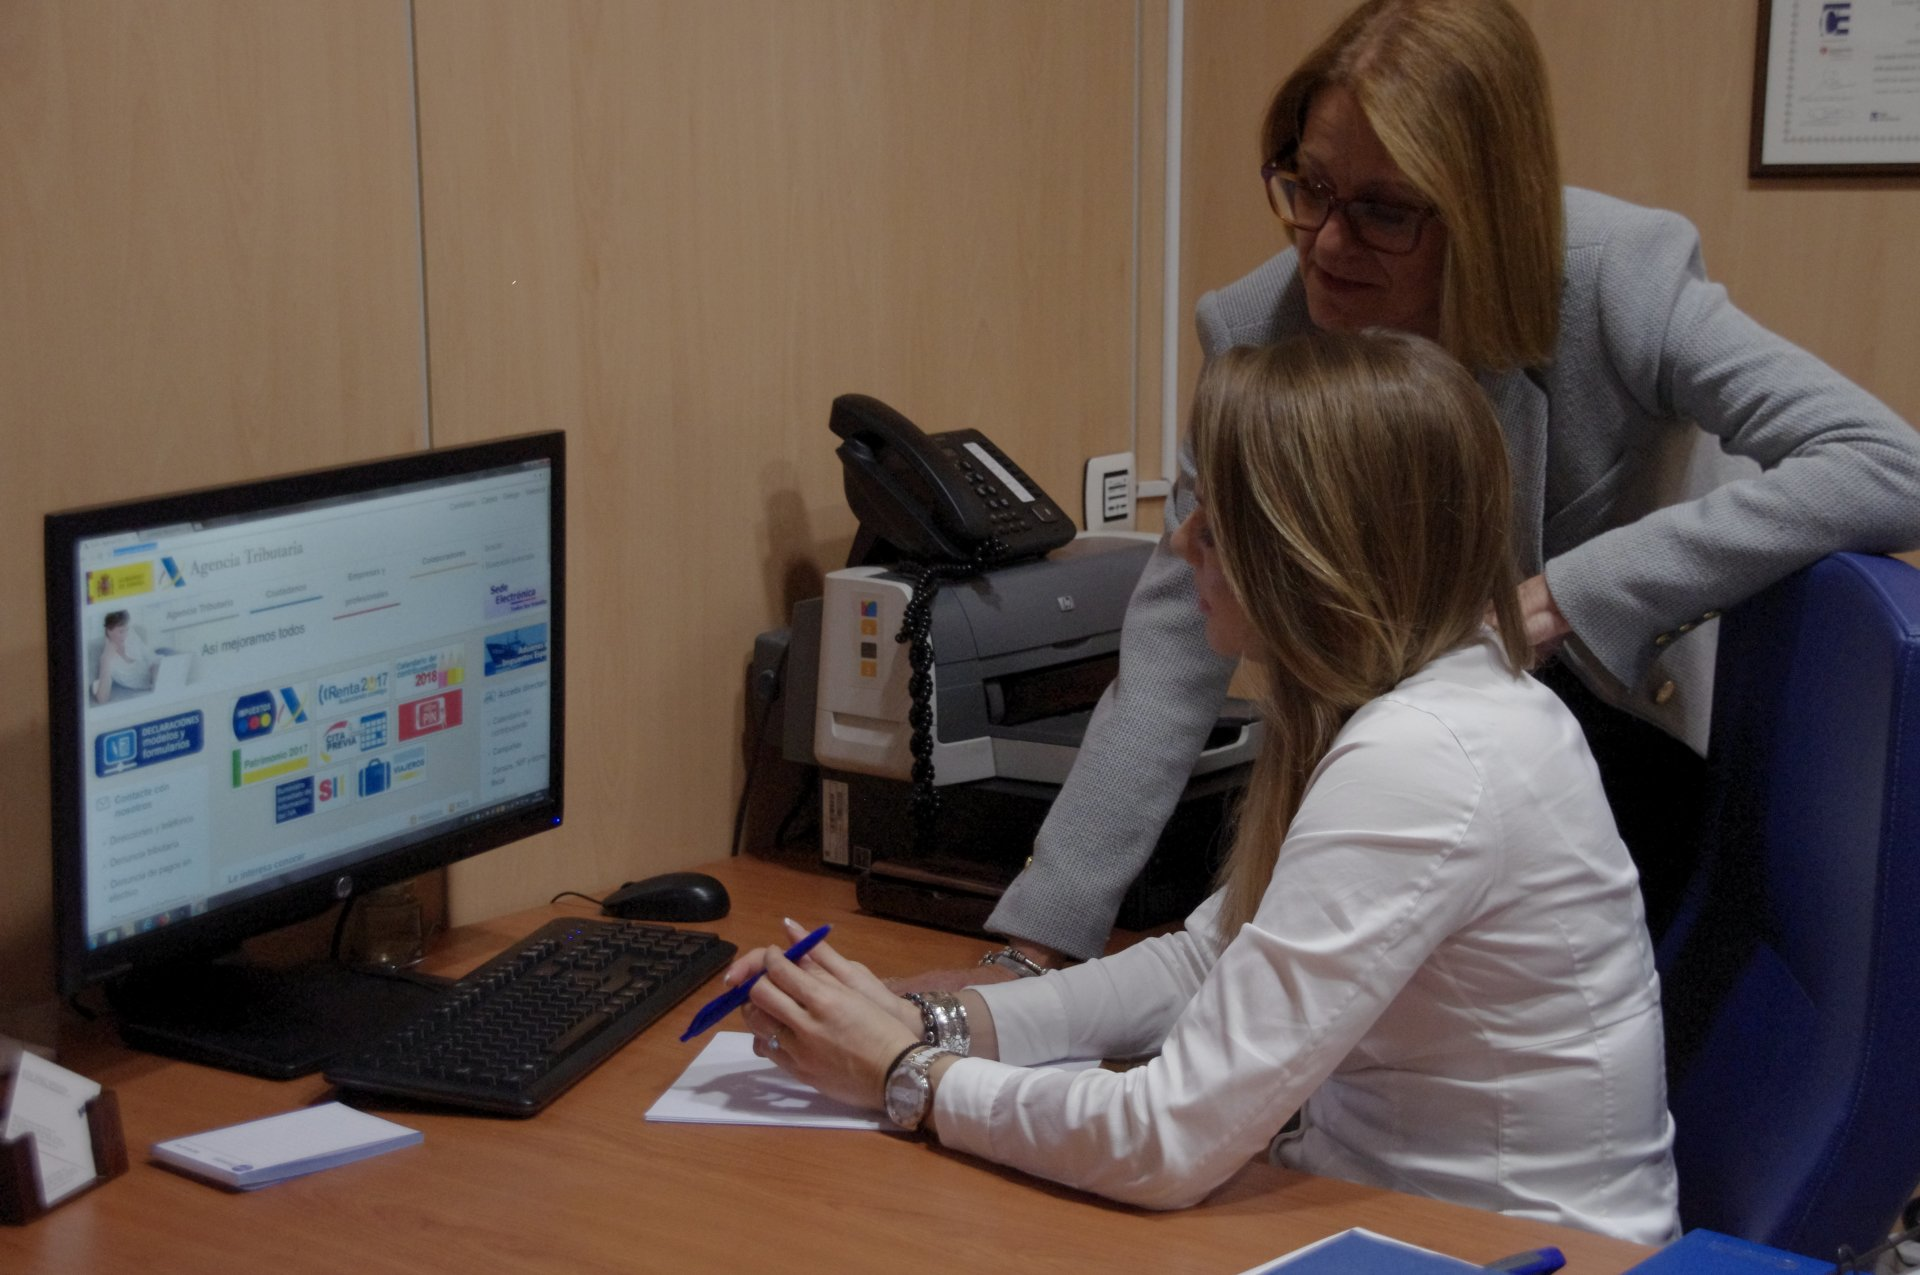
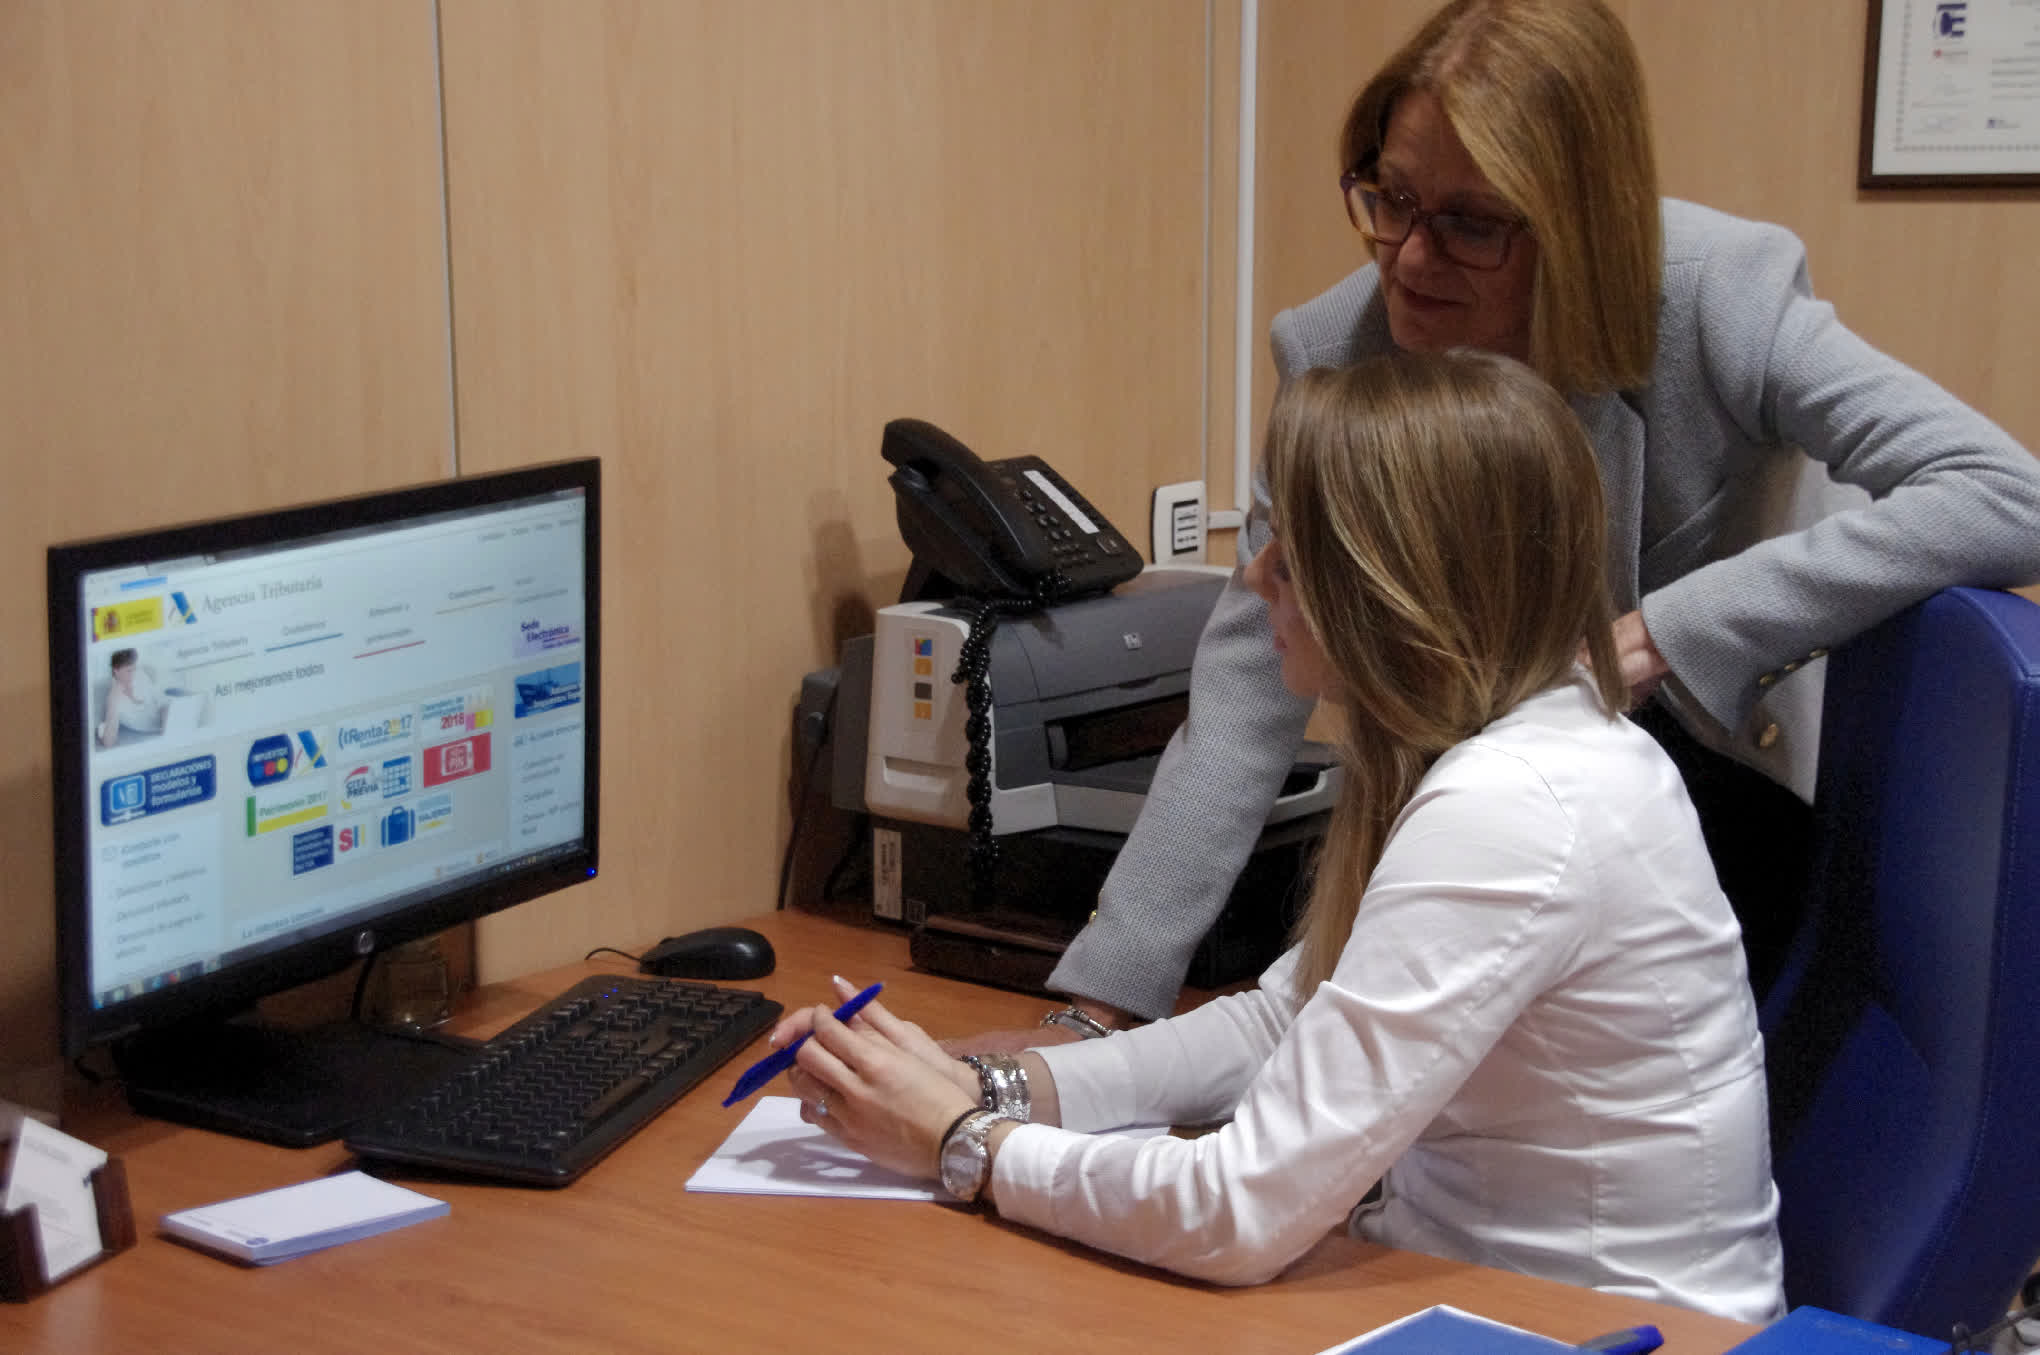
[common]: Improve several photos. [contact]: total rework.

diff --git a/contacto/index.html b/contacto/index.html
@@ -29,9 +29,55 @@
 </nav>
 <body>
         <h1 class="main-title">Contacto</h1>
+        <section id="cabecera-contacto" class="main-contacto" >
+                <div class="cabecera-contacto presentacion">
+                        <h3>Ven a visitarnos</h3>
 
+                    <p>Rambla Arquitecte Joan Bordas 47</p>
+                    <p>17220 Sant Feliu de Guixols</p>
+                    <p>Teléfono: 972 32 69 68</p>
+                    <p>E-mail: info@tramiteconomistes.com</p>
+                </div>
+                <div class="main-contacto acciones">
+                    <div class="main-contacto acciones-contenedor-llamar">
+                      <a href="tel:972 32 69 68"> 
+                      <img class="main-contacto acciones-llamar" src="../img/android-call.png"/>
+                      </a>
+                    </div>
+
+                    <div>
+                    <a href="mailto:info@tramiteconomistes.com"> 
+                        <img class="main-contacto acciones-email" src="../img/enviaremail.png"/>
+                    </a>
+                    </div>
+
+                                        <div>
+                    <a href="https://www.google.es/maps/place/Rambla+de+Joan+Bord%C3%A0s,+47,+17220+Sant+Feliu+de+Gu%C3%ADxols,+Girona/@41.7893788,3.0220123,17z/data=!3m1!4b1!4m5!3m4!1s0x12bb06a5962677fb:0x90e8429df3d2b0b9!8m2!3d41.7893748!4d3.0242063"> 
+                        <img class="main-contacto acciones-maps" src="../img/localizartramit.png"/>
+                    </a>
+                    </div>
+                </div>
+        </section>
 <main>
+
+        <section class="main-contacto horario" >
+
+        <img class="main-image" src="../img/exterioroficinatramiteconomistes.jpg"/>
+
+                <div class="main-contacto horario-texto">
+                        <h3>Horario de oficina</h3>
+                        <p>Invierno: 16 septiembre - 31 Julio</p
+                        <p>Lunes - Viernes: 8:00 - 18:00</p>
+                        <hr>
+                        <p>Verano: 1 agosto - 15 Septiembre</p
+                        <p>Lunes - Viernes: 8:00 - 15:00</p>
+                </div>
+        </section>
+
+
+
     <section id="formulario">
+            <h4>También puedes usar nuestro fomulario de contacto. Te respondremos lo antes posible.</h4>
             <form class="cf">
               <div class="cf">
                 <input type="text" id="input-name" placeholder="Nombre" required>
@@ -46,16 +92,8 @@
     </section>
     <div class="main-flex">
 
-    <section class="tarjeta" >
-        <div>
-            <h3>&#9400; Tràmit Economistes, SLP </h3>
-            <p>Teléfono: 972 32 69 68</p>
-            <p>E-mail: info@tramiteconomistes.com</p>
-            <p>Rambla Arquitecte Joan Bordas, número 47</p>
-            <p>17220 Sant Feliu de Guixols</p>
-        </div>
-    </section>
-    <section class="tarjeta">
+
+   <!-- <section class="tarjeta">
             <div>
                 <h3>Horario de oficina</h3>
                 <p>Invierno: 16 septiembre - 31 Julio</p
@@ -64,7 +102,7 @@
                 <p>Verano: 1 agosto - 15 Septiembre</p
                 <p>Lunes - Viernes: 8:00 - 15:00</p>
             </div>
-    </section>
+    </section> -->
 </div>
 </main>
     <script src="../js/shared.js"></script>

diff --git a/contacto/contacto.css b/contacto/contacto.css
@@ -5,8 +5,71 @@ header {
     color: #00587F;
     font-size: 2rem;
     text-align: center;
-    margin-bottom: 3rem;
+    margin-bottom: 2.5rem;
 }
+
+.main-image {
+    width: 100%;
+    height: auto;
+    margin: 0 0;
+    display: block;
+    max-width: 480px;
+    min-width: 340px;
+}
+
+.main-contacto .acciones-llamar,
+.main-contacto .acciones-email,
+.main-contacto .acciones-maps {
+    margin: 0 auto;
+    display: block;   
+    border: 2px solid black;
+    border-radius: 80%;
+    height: 50px;
+}
+
+.main-contacto.horario {
+    padding: 0;
+    position: relative;
+
+}
+
+.main-contacto .horario-texto {
+    position: absolute;
+    left:5%;
+    top: 20%;
+    background-color: rgba(0, 88, 127, 0.3);
+    color: white;
+    font-size: 1.2rem;
+}
+
+#formulario h4 {
+    background-color: white;
+    padding: 0.1rem 0.2rem;
+    text-align: center;
+    line-height: 1.15rem;
+
+}
+
+#cabecera-contacto {
+    display: flex;
+    flex-direction: column;
+    padding: 0;
+}
+
+.main-contacto.acciones {
+    display: flex;
+    justify-content: space-between;
+}
+
+.cabecera-contacto.presentacion {
+    flex: 45%;
+    padding-left: 0.2rem;
+}
+
+.remove {
+    display: none !important;
+}
+
 
 .tarjeta {
     padding: 0 0.2rem;
@@ -25,6 +88,17 @@ header {
     margin: 0;
 }
 
+.main-contacto {
+    background-color: #f2f2f2;
+    padding: 0 0.2rem;
+    text-align: left;
+    margin-bottom: 1rem;
+    padding-bottom: 0.1rem;
+}
+
+.main-contacto div {
+    line-height: 0.5rem;
+}
 
 .main-flex {
     display: flex;
@@ -32,15 +106,39 @@ header {
     align-items: center;
 }
 
-@media (min-width: 50rem) {
+@media (min-width: 40rem) {
 
     main {
         display: flex;
         flex-direction: row;
         justify-content: center;
-        max-width: 75%;
+        max-width: 100%;
         margin: 0 auto;
         font-size: 1.15em;
+    }
+
+    #cabecera-contacto {
+        flex-direction: row;
+        align-items: center;
+    }
+
+    .cabecera-contacto.presentacion {
+        flex: 95%;
+    }
+    .main-contacto.acciones {
+        flex: 15%;
+        justify-content: space-around;
+    }
+
+    
+
+    .main-contacto .acciones-llamar,
+    .main-contacto .acciones-email,
+    .main-contacto .acciones-maps  {
+        height: 100px;
+    }
+    #formulario h4 {
+        background-color: transparent;
     }
 
     .main-flex {
@@ -54,11 +152,6 @@ header {
 
     .main-title {
         font-size: 3rem;
-    }
-
-    footer {
-        position: absolute;
-        bottom: 0;
     }
 
 }

diff --git a/historia/index.html b/historia/index.html
@@ -43,17 +43,17 @@
              <p>Entre nuestros profesionales encontramos las siguientes titulaciones entre otras:</p>
              <ul>
              <li>Licenciados en Ciencias Econ&oacute;micas.</li>
-             <li>Master en especializaci&oacute;n Tributaria.</li>
+             <li>Máster en Especializaci&oacute;n Tributaria.</li>
              <li>Curso en Derecho Tributario.</li>
              <li>Programa superior en Direcci&oacute;n Financiera y Control.</li>
              <li>T&eacute;cnico en Riesgo Laborales.</li>
              <li>Gestor Administrativo.</li>
-             <li>Agente de la propiedad Inmobiliaria.</li>
+             <li>Agente de la Propiedad Inmobiliaria.</li>
              </ul>
              <p style="font-size:0.9rem">Tràmit Economistes, SLP se encuentra adscrita al Col·legi d’Economistes de Catalunya con el número 80. El equipo está dirigido por Maria Rosa Yañez miembro del Col·legi d’Economistes de Catalunya (nº 3624) y del Col·legi de Gestors de Catalunya (nº2337)</p>
 
             </div>     
-    <img class="section-image" src="../img/reunion.jpg" alt="Tarjetas de visita"> </img>    
+    <img class="section-image" src="../img/reunion.jpg" alt="Reunión con un cliente en la oficina de Tramit Economistes"> </img>    
 
 </section>
 

diff --git a/js/shared.js b/js/shared.js
@@ -13,6 +13,10 @@ toggleButton.addEventListener("click", function() {
     toggleButton.classList.toggle("is-active");
 });
 
-if (mobilecheck()) {
-    //var phoneLink = document.querySelector(".footer-contact.telephone");
+if (!mobilecheck()) {
+    var accionesMovil = document.querySelector(".main-contacto .acciones-contenedor-llamar");
+
+    if (accionesMovil) {
+        accionesMovil.remove();
+    }
 }

diff --git a/areas/areas.css b/areas/areas.css
@@ -2,7 +2,7 @@ header {
     position: relative;
 }
 #main-image {
-    background-image: url("../img/planogeneral.jpg"); 
+    background-image: url("../img/oficinatramiteconomistes.jpg"); 
     height: 300px;
     background-size: cover;
     background-repeat: no-repeat;
